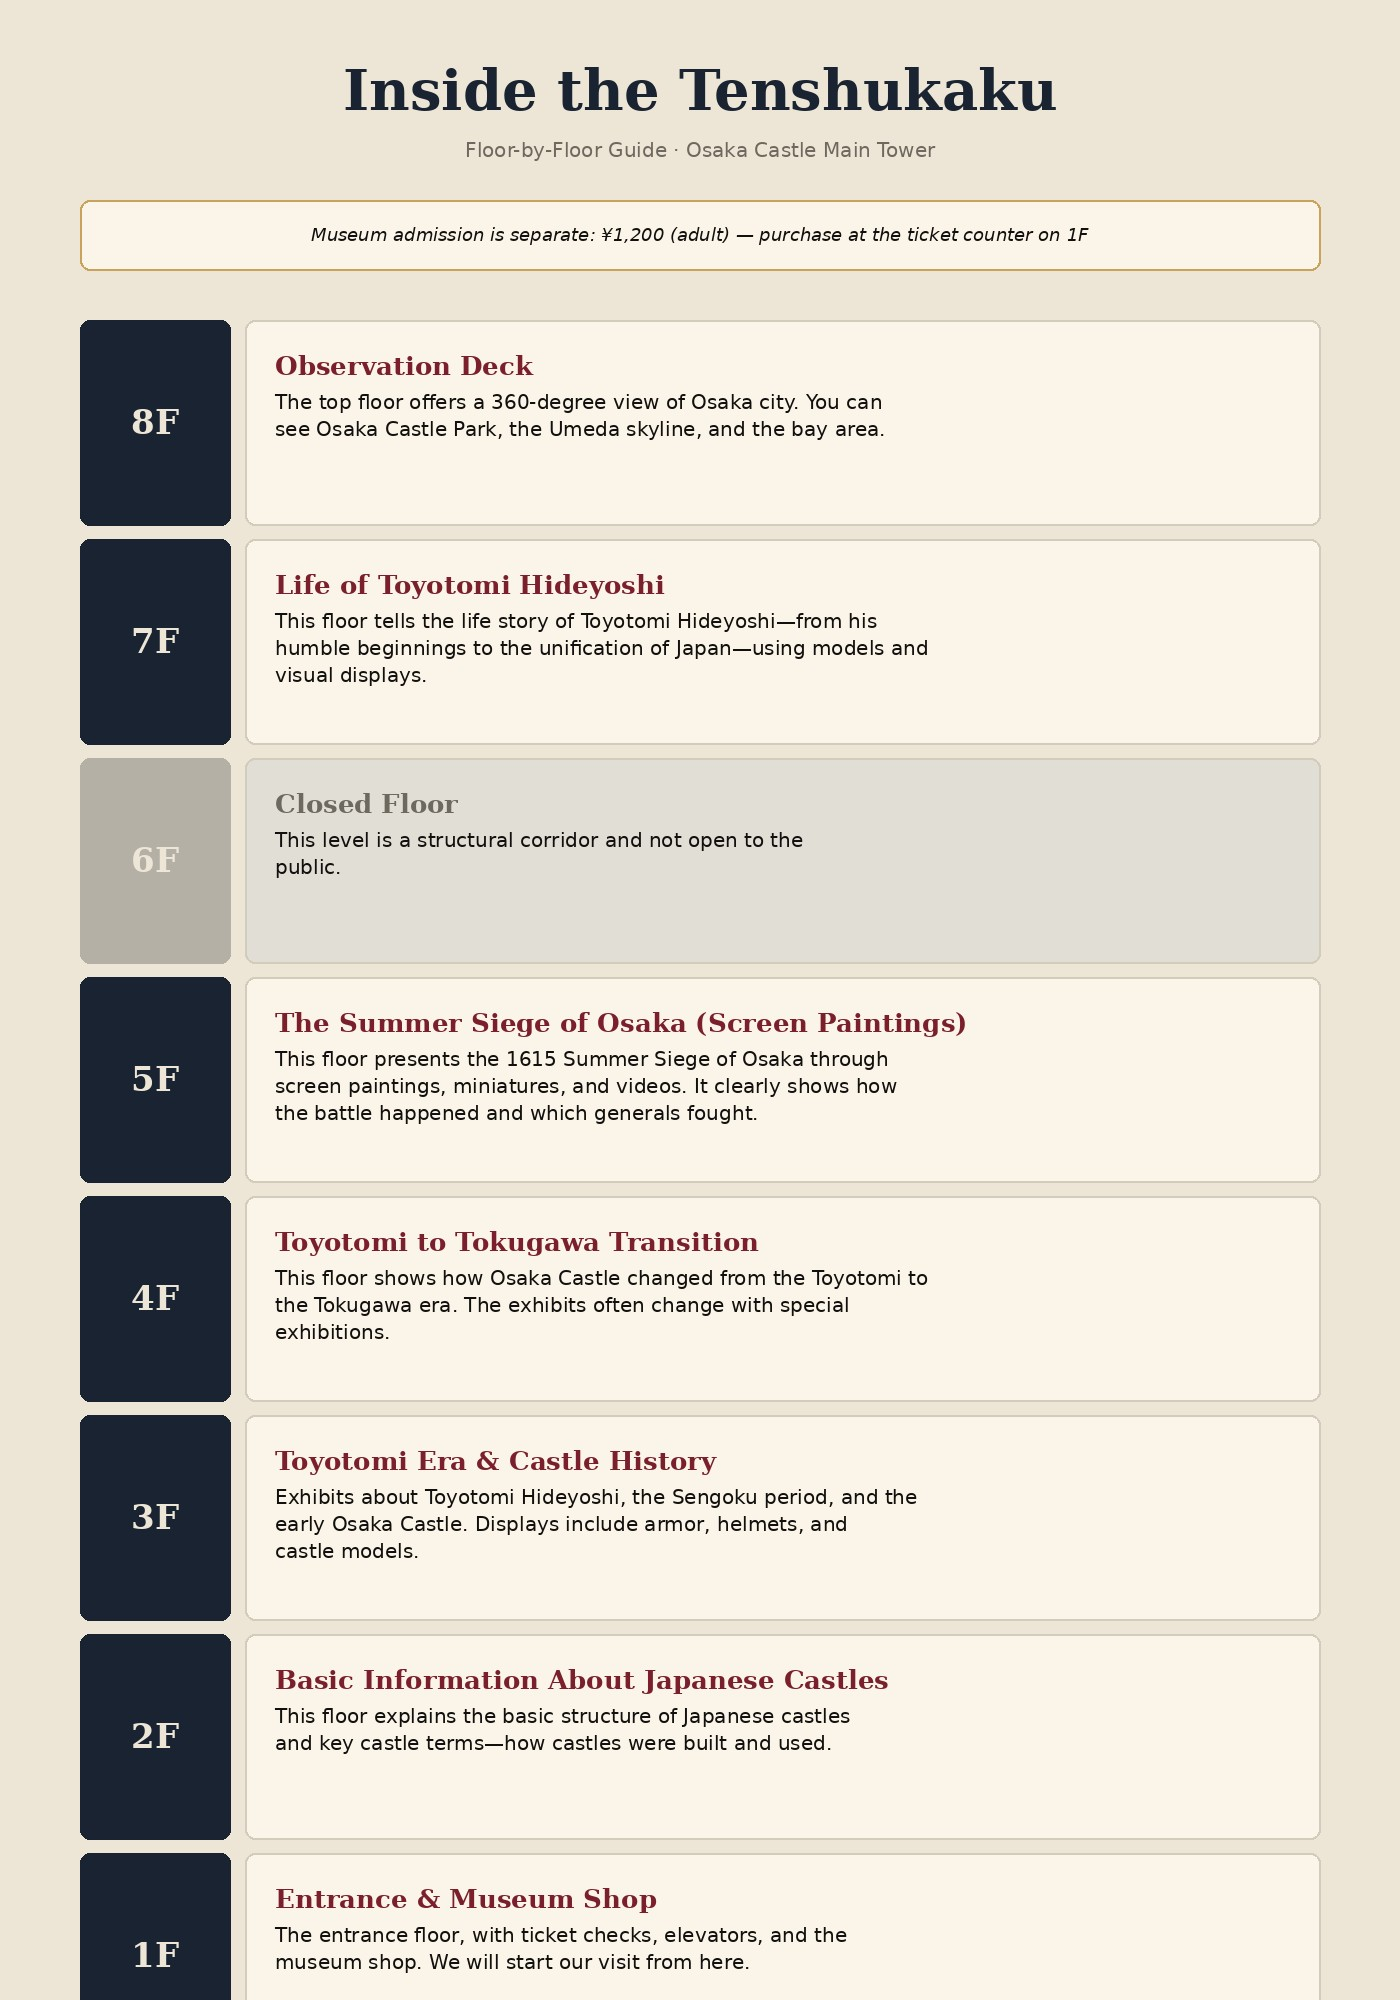
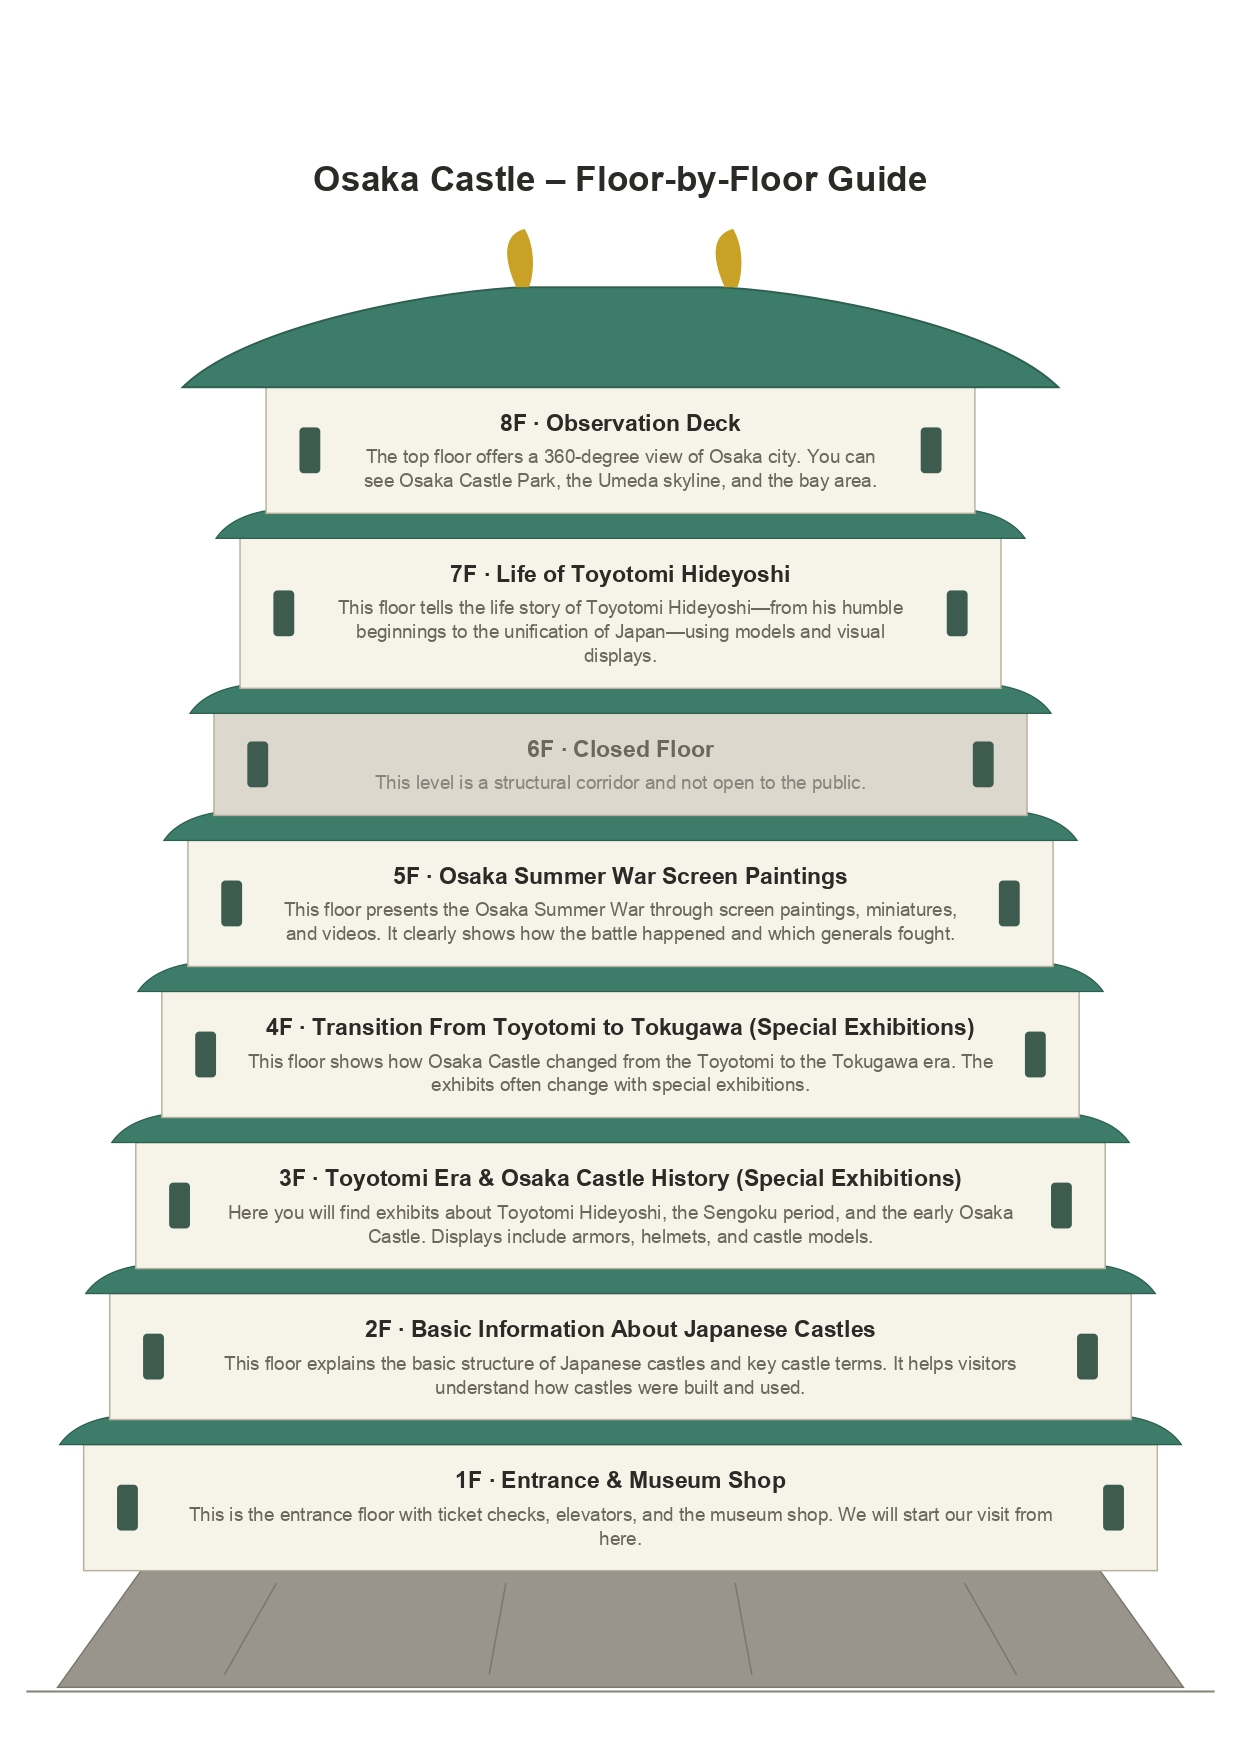
Replace stop08 floor guide with new pagoda-style infographic

diff --git a/vite-react-main/public/route-a/stop08.html b/vite-react-main/public/route-a/stop08.html
@@ -280,7 +280,7 @@
   </div>
 
   <div class="floor-guide-image">
-    <img src="images/tenshukaku-floor-guide.jpg" alt="Osaka Castle Tenshukaku floor-by-floor guide, 1F to 8F" style="width:100%; border-radius: 12px; margin: 16px 0; display: block;">
+    <img src="images/tenshukaku-floor-guide.jpg" alt="Osaka Castle floor-by-floor guide, 1F to 8F, illustrated as a stacked pagoda" style="width:100%; border-radius: 12px; margin: 16px 0; display: block;">
   </div>
 
   <div class="narrative">
